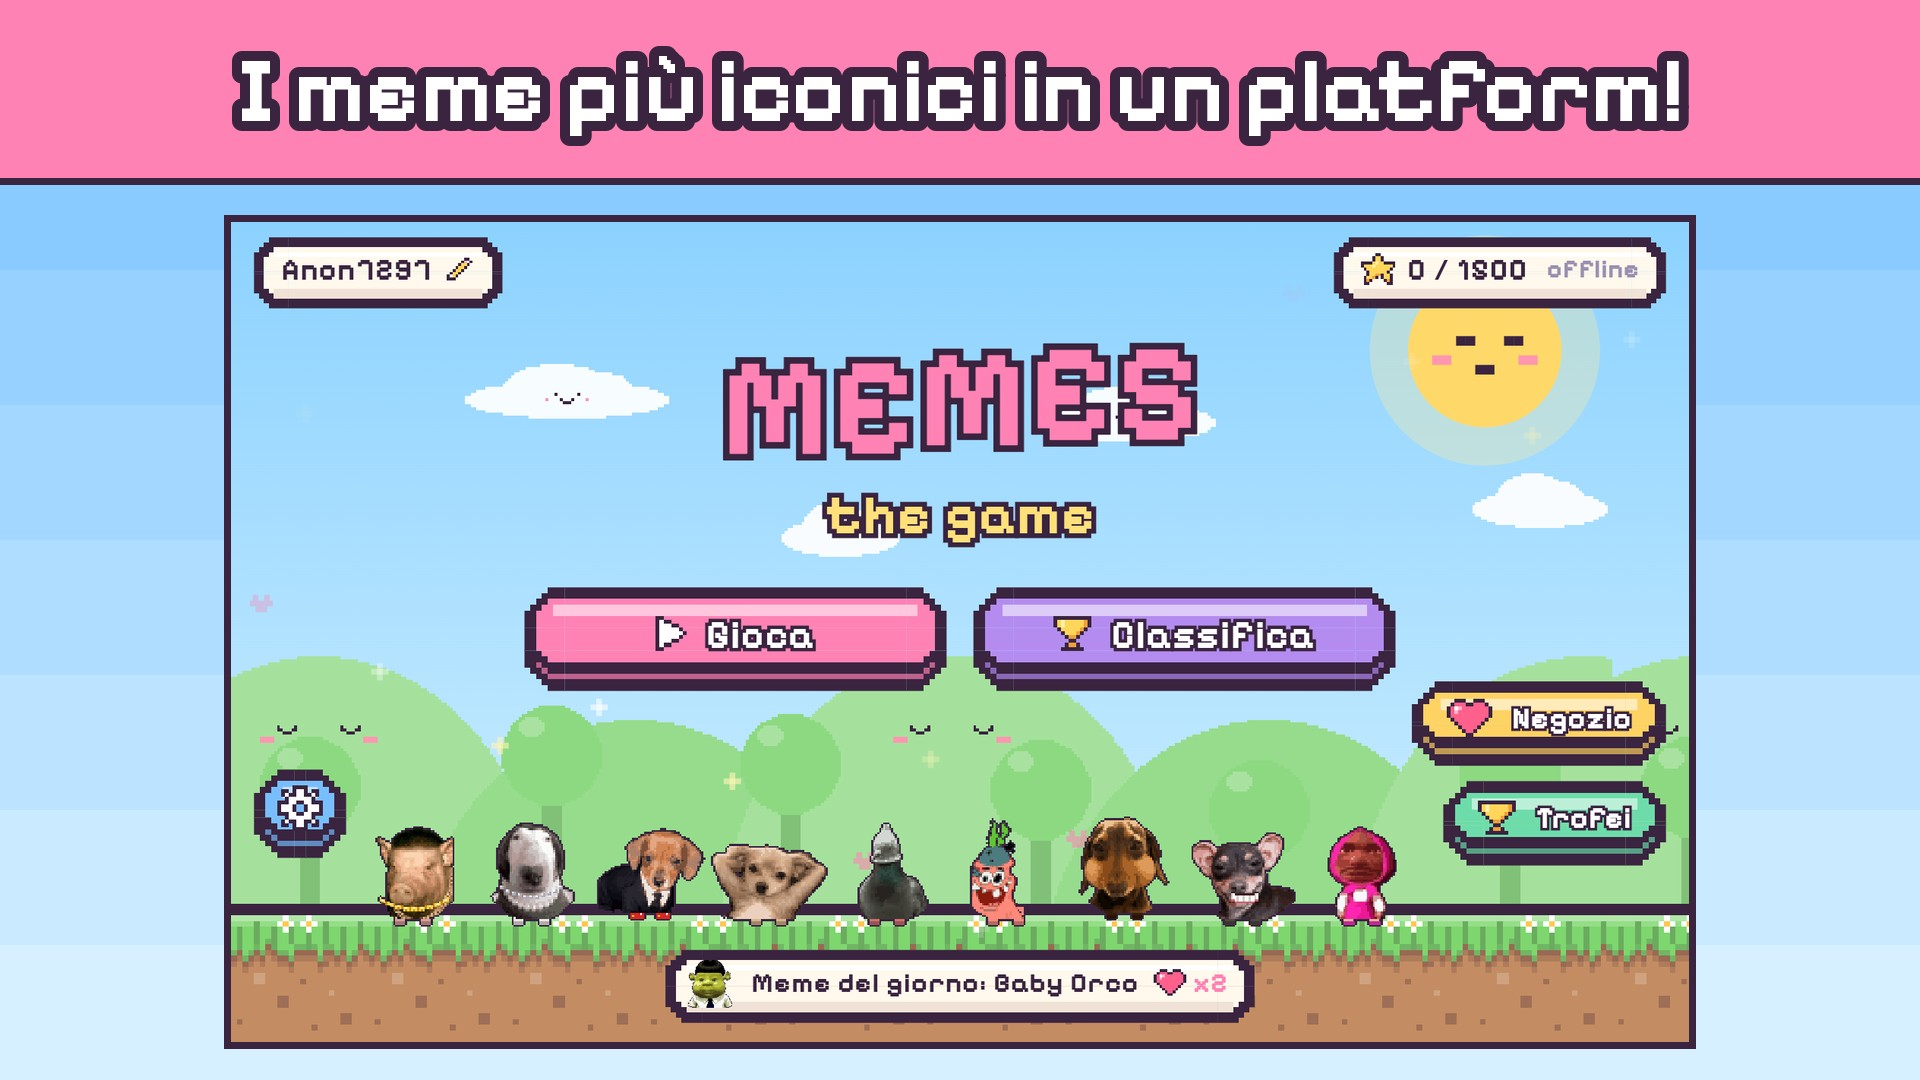
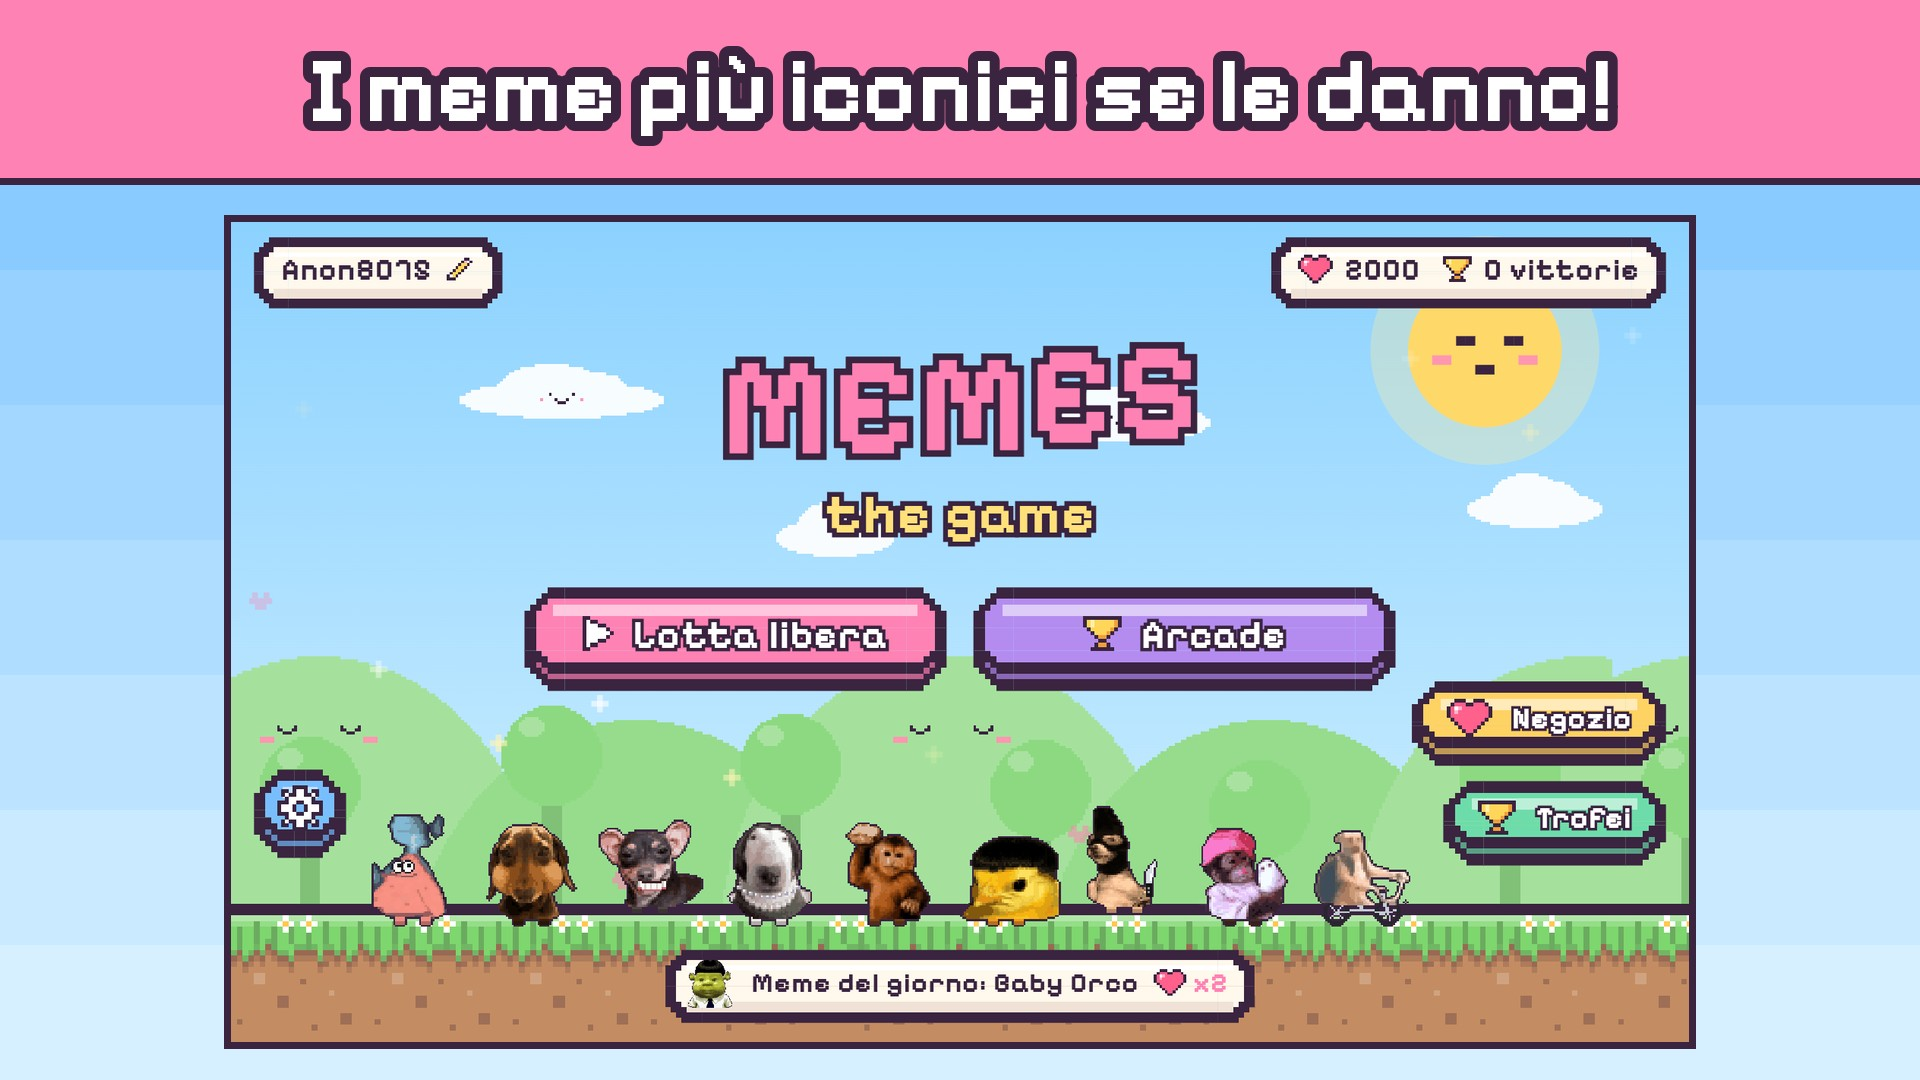
Store screenshots for the fighter (Play, iPhone, iPad)
Claude-Session: https://claude.ai/code/session_01E1QhPghTw73vfcVd6FtikP

diff --git a/tool/generate_store_art.py b/tool/generate_store_art.py
@@ -50,11 +50,12 @@ def feature_graphic() -> Image.Image:
 
 
 CAPTIONS = {
-    '1_home': 'I meme più iconici in un platform!',
-    '2_select': '24 meme, ognuno con la sua mossa',
-    '3_special': 'Mosse speciali assurde',
-    '4_shop': 'Cappelli, trofei e classifica',
-    '5_map': '500 livelli in 10 mondi',
+    '1_home': 'I meme più iconici se le danno!',
+    '2_select': '24 lottatori, ognuno con la sua mossa',
+    '3_fight': 'Scaraventali fuori dall\'arena!',
+    '4_special': 'Mosse speciali assurde',
+    '5_arcade': 'Arcade: 8 avversari sempre più forti',
+    '6_shop': 'Cappelli e trofei da sbloccare',
 }
 
 
